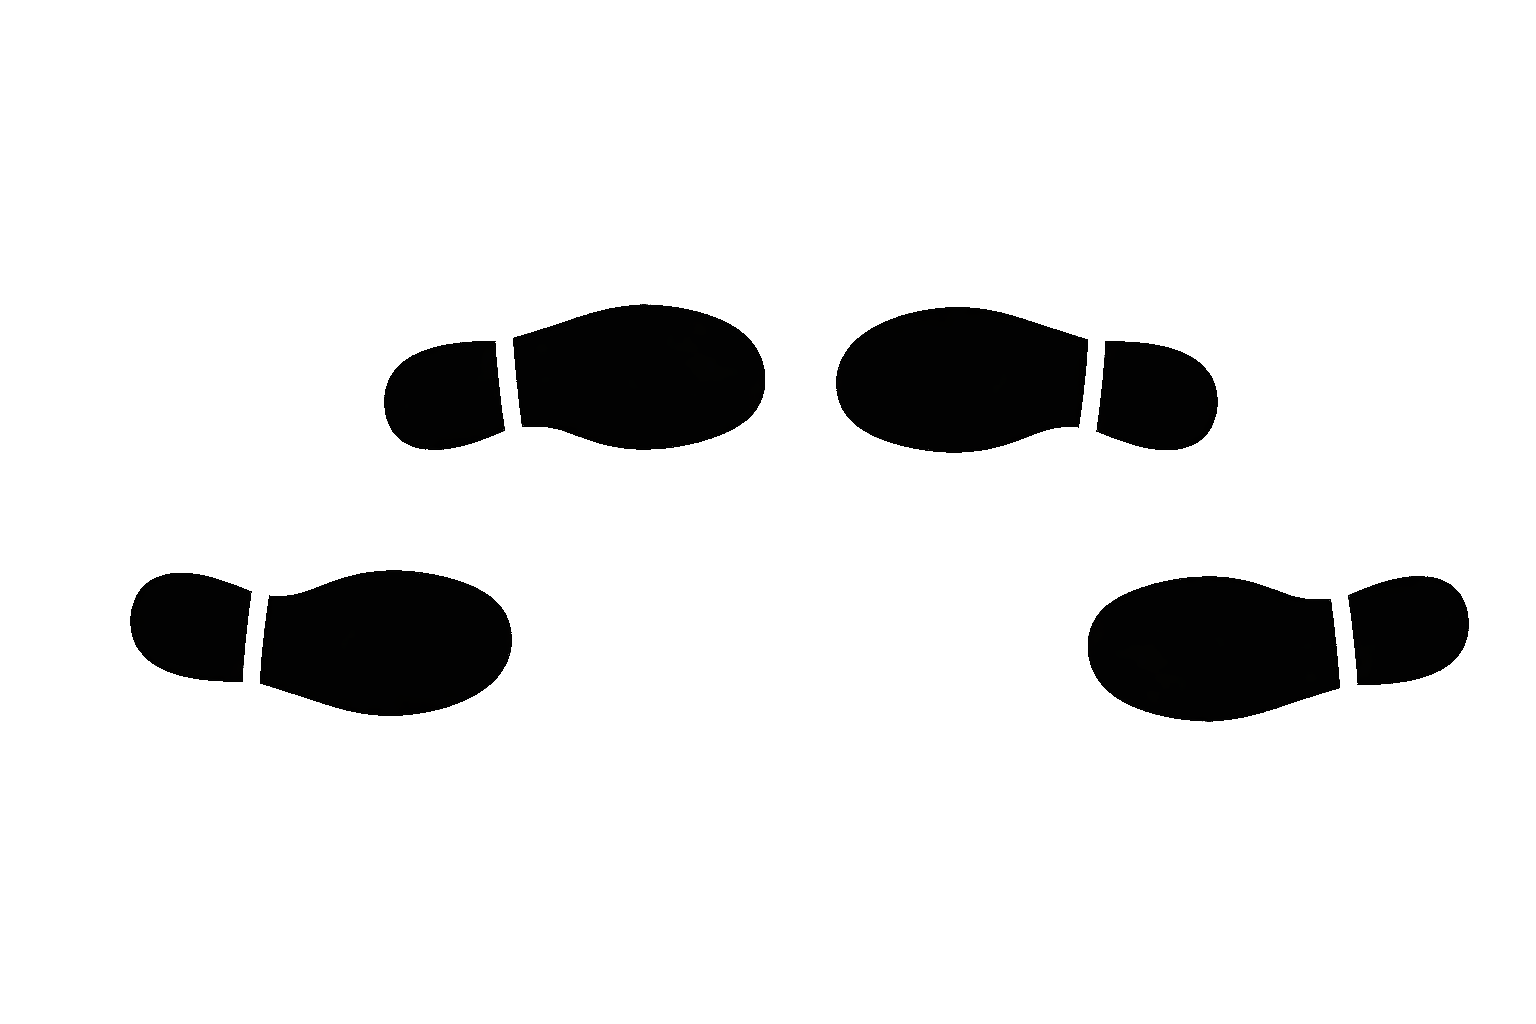
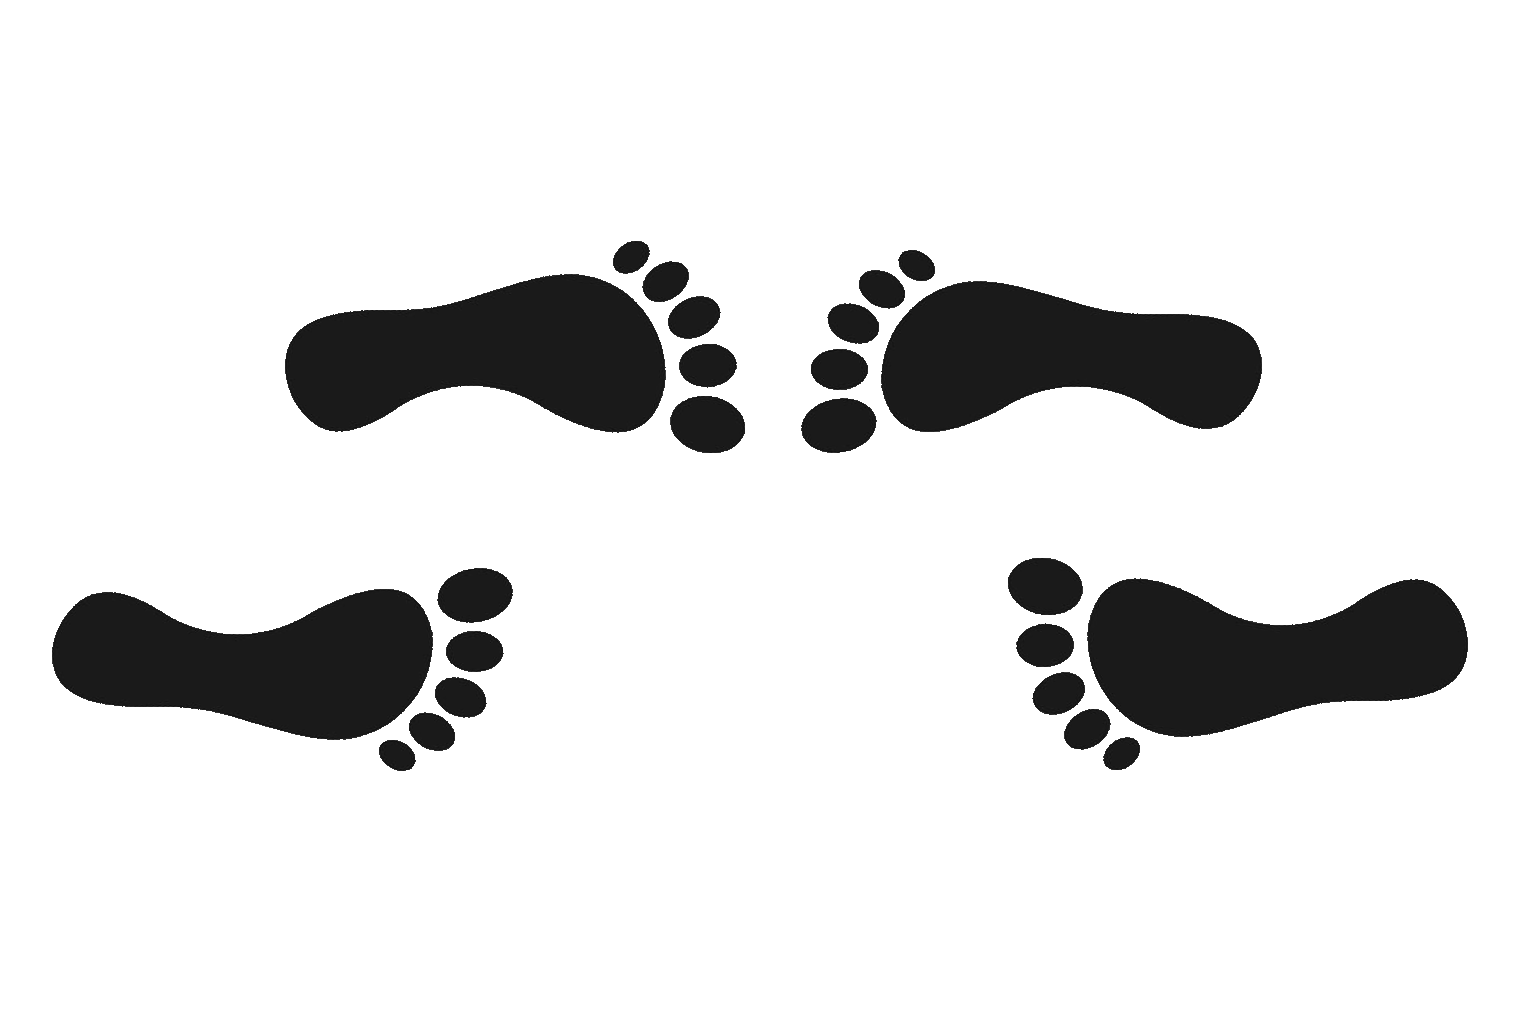
Replace stance shoes with foot illustrations

Changed region(s): [[0.1875, 0.2188, 0.8438, 0.4688], [0.0312, 0.5312, 0.3438, 0.75], [0.6562, 0.5312, 0.9688, 0.75]]

diff --git a/frontend/src/changelog-entries.ts b/frontend/src/changelog-entries.ts
@@ -16,10 +16,10 @@ export const CHANGELOG: ChangelogEntry[] = [
       },
       {
         emoji: "✨",
-        sv: "Flera tränings- och studiesidor har fått ett lugnare och mer enhetligt gränssnitt med tydligare utfällningar, statusmarkeringar och listor.",
-        en: "Several training and study pages now have a calmer, more consistent interface with clearer expandable sections, status markers and lists.",
-        tr: "Birçok antrenman ve çalışma sayfası; daha anlaşılır açılır bölümler, durum işaretleri ve listelerle daha sakin ve tutarlı bir arayüze kavuştu.",
-        ja: "複数の練習・学習ページを、より落ち着いた統一感のあるデザインに整え、展開項目、進捗表示、一覧を分かりやすくしました。",
+        sv: "Flera tränings- och studiesidor har fått ett lugnare och mer enhetligt gränssnitt med tydligare utfällningar, statusmarkeringar, listor och fotpositionsillustrationer.",
+        en: "Several training and study pages now have a calmer, more consistent interface with clearer expandable sections, status markers, lists and foot-position illustrations.",
+        tr: "Birçok antrenman ve çalışma sayfası; daha anlaşılır açılır bölümler, durum işaretleri, listeler ve ayak konumu çizimleriyle daha sakin ve tutarlı bir arayüze kavuştu.",
+        ja: "複数の練習・学習ページを、より落ち着いた統一感のあるデザインに整え、展開項目、進捗表示、一覧、足位の図を分かりやすくしました。",
       },
     ],
   },

diff --git a/frontend/src/index.css b/frontend/src/index.css
@@ -127,6 +127,10 @@ img.logo {
   width: 64px;
 }
 
+[data-bs-theme="dark"] .stance-icon {
+  filter: invert(1);
+}
+
 table.hokei-individuals-table td {
   padding-right: 0.5em;
 }
